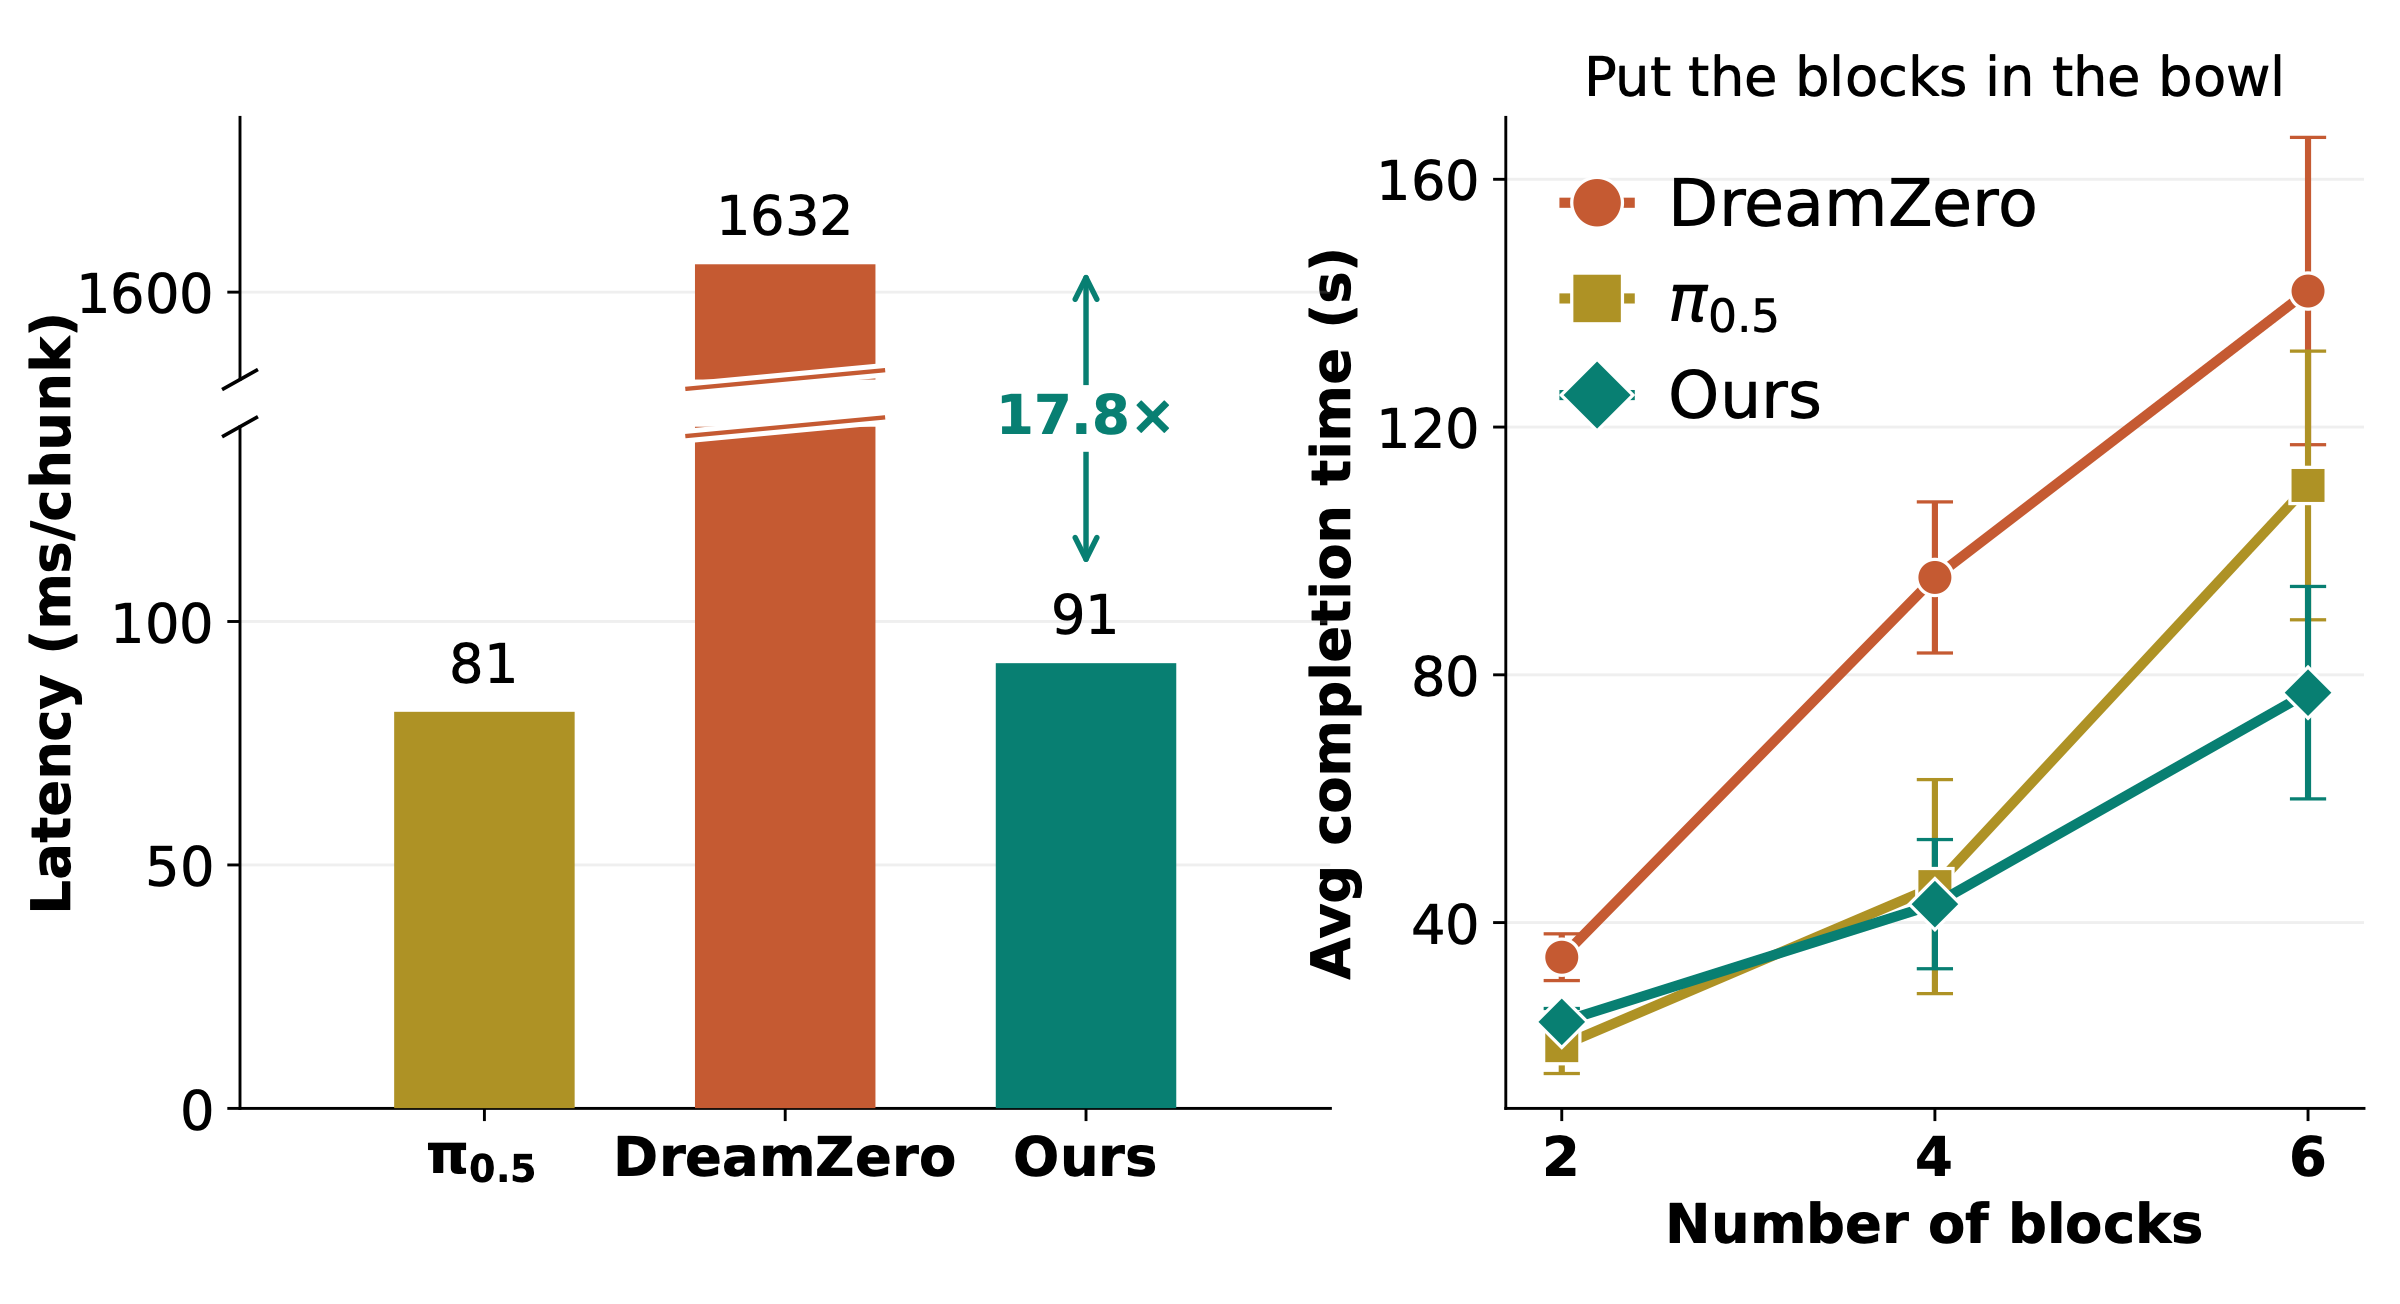
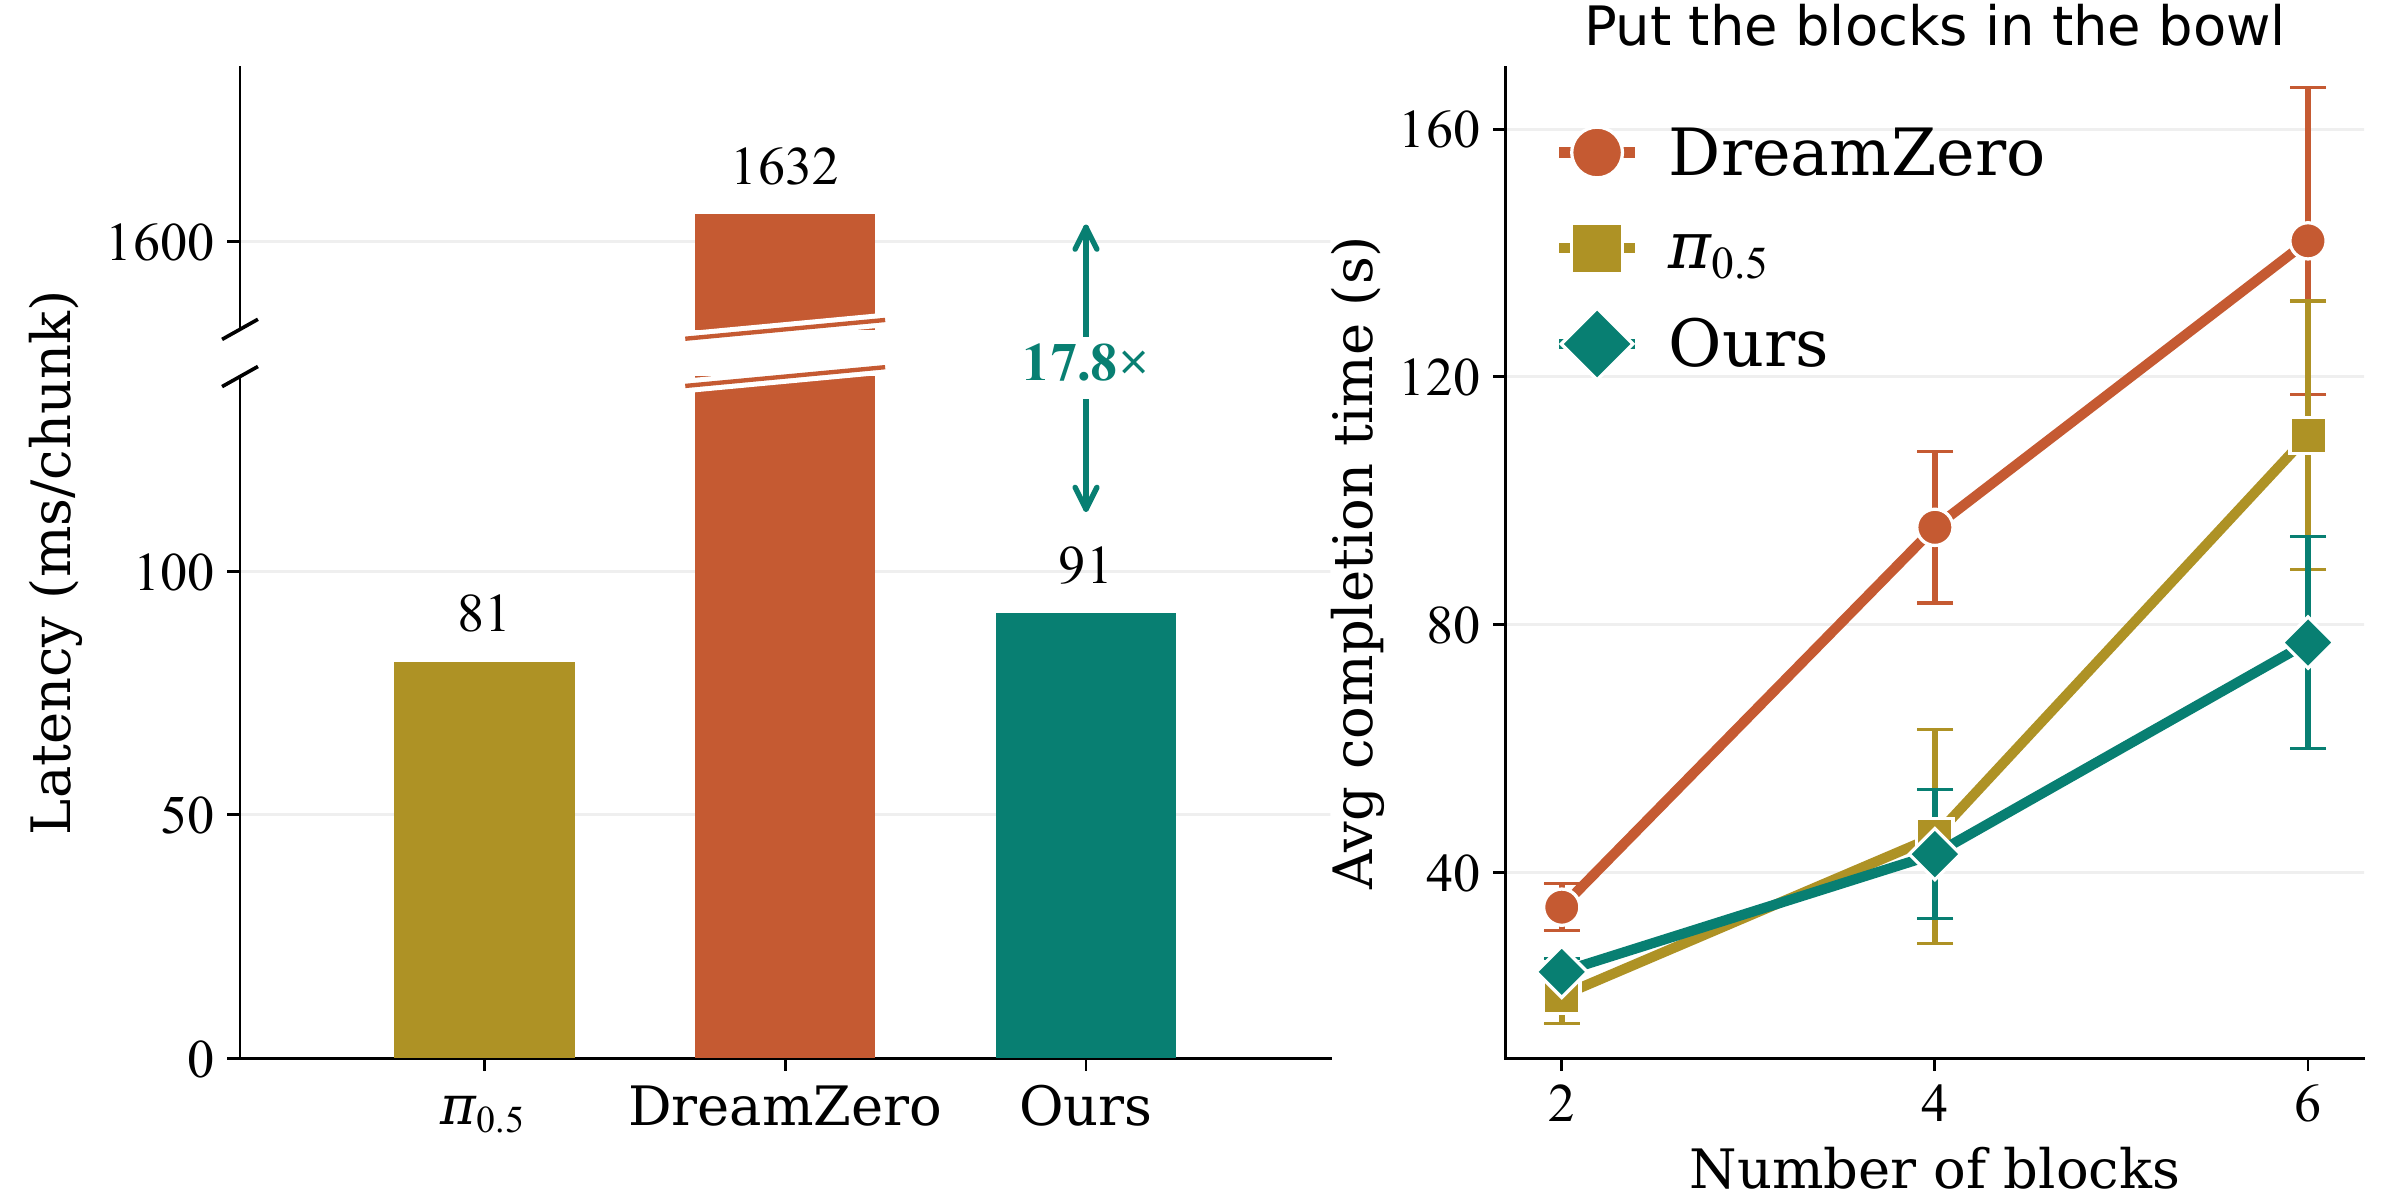
Update Figure 5 and add TL;DR summary

diff --git a/index.html b/index.html
@@ -7,7 +7,7 @@
   <meta name="theme-color" content="#ffffff">
   <title>DreamFree: Future Representation Distillation for Imagination-free World Action Models</title>
   <link rel="icon" href="assets/favicon.svg?v=lightning" type="image/svg+xml">
-  <link rel="stylesheet" href="styles.css?v=faster-concept-sequence">
+  <link rel="stylesheet" href="styles.css?v=tldr-callout">
   <link rel="stylesheet" href="demos-compact.css?v=titillium-web">
   <link rel="stylesheet" href="demos.css?v=category-text-tabs">
   <script src="content.js" defer></script>
@@ -45,7 +45,7 @@
         <a class="resource" href="gallery.html"><svg viewBox="0 0 24 24" aria-hidden="true"><rect x="3" y="4" width="18" height="16" rx="2"/><path d="m10 8 6 4-6 4V8Z"/></svg>Gallery</a>
         <a class="resource" href="#demos"><svg viewBox="0 0 24 24" aria-hidden="true"><path d="m9 5 11 7-11 7V5Z"/></svg>Video examples</a>
       </div>
-      <p class="tldr"><strong>WAM-like training, VLA-like inference.</strong><br><strong>DreamFree</strong> uses a video model’s predictive features to predict actions <em>without generating future videos.</em></p>
+      <p class="tldr"><strong>TL;DR:</strong> DreamFree scales imagination-free WAMs through future representation distillation that effectively leverages the predictive priors of pretrained video diffusion models.</p>
       <div class="deployment-evidence">
         <div class="deployment-story">
           <div><h3>A 14B video backbone running at 11 Hz.</h3><p><span class="method-name">DreamFree</span> achieves <strong>11 Hz on a single H200</strong> and a <strong>17.8× inference speedup over DreamZero</strong>, while improving real-world success.</p></div>
@@ -159,7 +159,7 @@
     </section>
 
     <section class="section section-tint" id="method" aria-labelledby="method-title"><div class="container">
-      <div class="section-heading"><h2 id="method-title">Make video priors useful without imagining videos.</h2><p>An explicit alignment loss makes current-frame features predictive of the future.</p></div>
+      <div class="section-heading"><h2 id="method-title">Make video priors useful without imagining videos.</h2><p>WAM-like training, VLA-like inference.</p></div>
       <p class="method-phase-label">At training</p>
       <figure class="paper-figure"><button class="figure-zoom" type="button" aria-label="Enlarge Figure 2 method diagram"><img src="assets/figures/method_v2.png?v=20261103" width="2400" height="617" loading="lazy" alt="DreamFree's two-stage architecture: future representation distillation from a frozen video model, followed by training an action readout and decoder."></button><figcaption>Figure 2 · Future frames supervise predictive representation learning during training. At deployment, the encoder needs only the current observation and instruction.</figcaption></figure>
       
@@ -205,7 +205,7 @@
         </div>
         <figure class="paper-figure"><button class="figure-zoom" type="button" aria-label="Enlarge Figure 4 real-world evaluation chart"><img src="assets/figures/droid_real_two_row.png" width="2400" height="983" loading="lazy" alt="Per-task success and progress on 10 real-world DROID tasks, comparing DreamFree, DreamZero, and pi 0.5."></button><figcaption>Figure 4 · Per-task results include deformable objects, object rearrangement, and sequential manipulation.</figcaption></figure>
       </article>
-      <article class="finding"><div class="finding-copy"><h3>Real-time control at 11 Hz</h3><p>With its 14B video backbone, <span class="method-name">DreamFree</span> averages <strong>91 ms per action chunk on a single H200</strong>. Inference is <strong>17.8× faster than DreamZero</strong>, without video step distillation or asynchronous execution.</p></div><figure class="paper-figure"><button class="figure-zoom" type="button" aria-label="Enlarge Figure 5 latency and completion time chart"><img src="assets/figures/droid_latency_completion.png" width="2400" height="1304" loading="lazy" alt="Inference latency and task completion time comparisons for DreamFree, DreamZero, and pi 0.5."></button><figcaption>Figure 5 · Inference latency on NVIDIA H200 GPUs and task completion time.</figcaption></figure></article>
+      <article class="finding"><div class="finding-copy"><h3>Real-time control at 11 Hz</h3><p>With its 14B video backbone, <span class="method-name">DreamFree</span> averages <strong>91 ms per action chunk on a single H200</strong>. Inference is <strong>17.8× faster than DreamZero</strong>, without video step distillation or asynchronous execution.</p></div><figure class="paper-figure"><button class="figure-zoom" type="button" aria-label="Enlarge Figure 5 latency and completion time chart"><img src="assets/figures/droid_latency_completion.png?v=20261103" width="2400" height="1204" loading="lazy" alt="Inference latency and task completion time comparisons for DreamFree, DreamZero, and pi 0.5."></button><figcaption>Figure 5 · Inference latency on NVIDIA H200 GPUs and task completion time.</figcaption></figure></article>
     </section>
 
     <section class="section section-tint evaluation-entry" id="examples" aria-labelledby="examples-title"><div class="container">

diff --git a/styles.css b/styles.css
@@ -121,7 +121,8 @@
 .deployment-summary .memory-note { font-size: 16px; margin-top: 5px; }
 .teaser figcaption, .paper-figure figcaption { font-size: 15px; line-height: 1.65; }
 .preview-label { font-size: 12px; letter-spacing: .3px; text-transform: none; }
-.tldr { border: 0; background: none; text-align: center; padding: 0; margin-top: 24px; font-size: 18px; }
+.tldr { border: 0; border-left: 4px solid #7baaf7; border-radius: 4px; background: #eef4fe; text-align: left; padding: 16px 24px; margin-top: 24px; font-size: 18px; line-height: 1.5; }
+.tldr strong { color: #4285f4; }
 .section { padding-block: 44px; }
 .section-heading h2 { font-size: 34px; }
 .section-heading > p, .section .reading-width { font-size: 18px; }
@@ -175,7 +176,7 @@ pre { font-size: 14px; }
   .resource-links { flex-wrap: wrap; }
   .deployment-summary strong { font-size: 18px; }
   .deployment-summary .hardware-context, .deployment-summary .memory-note { font-size: 15px; }
-  .tldr { font-size: 17px; }
+  .tldr { padding: 14px 18px; font-size: 17px; }
   .teaser figcaption, .paper-figure figcaption { font-size: 14px; }
   .section { padding-block: 32px; }
   .section-heading h2 { font-size: 29px; }
